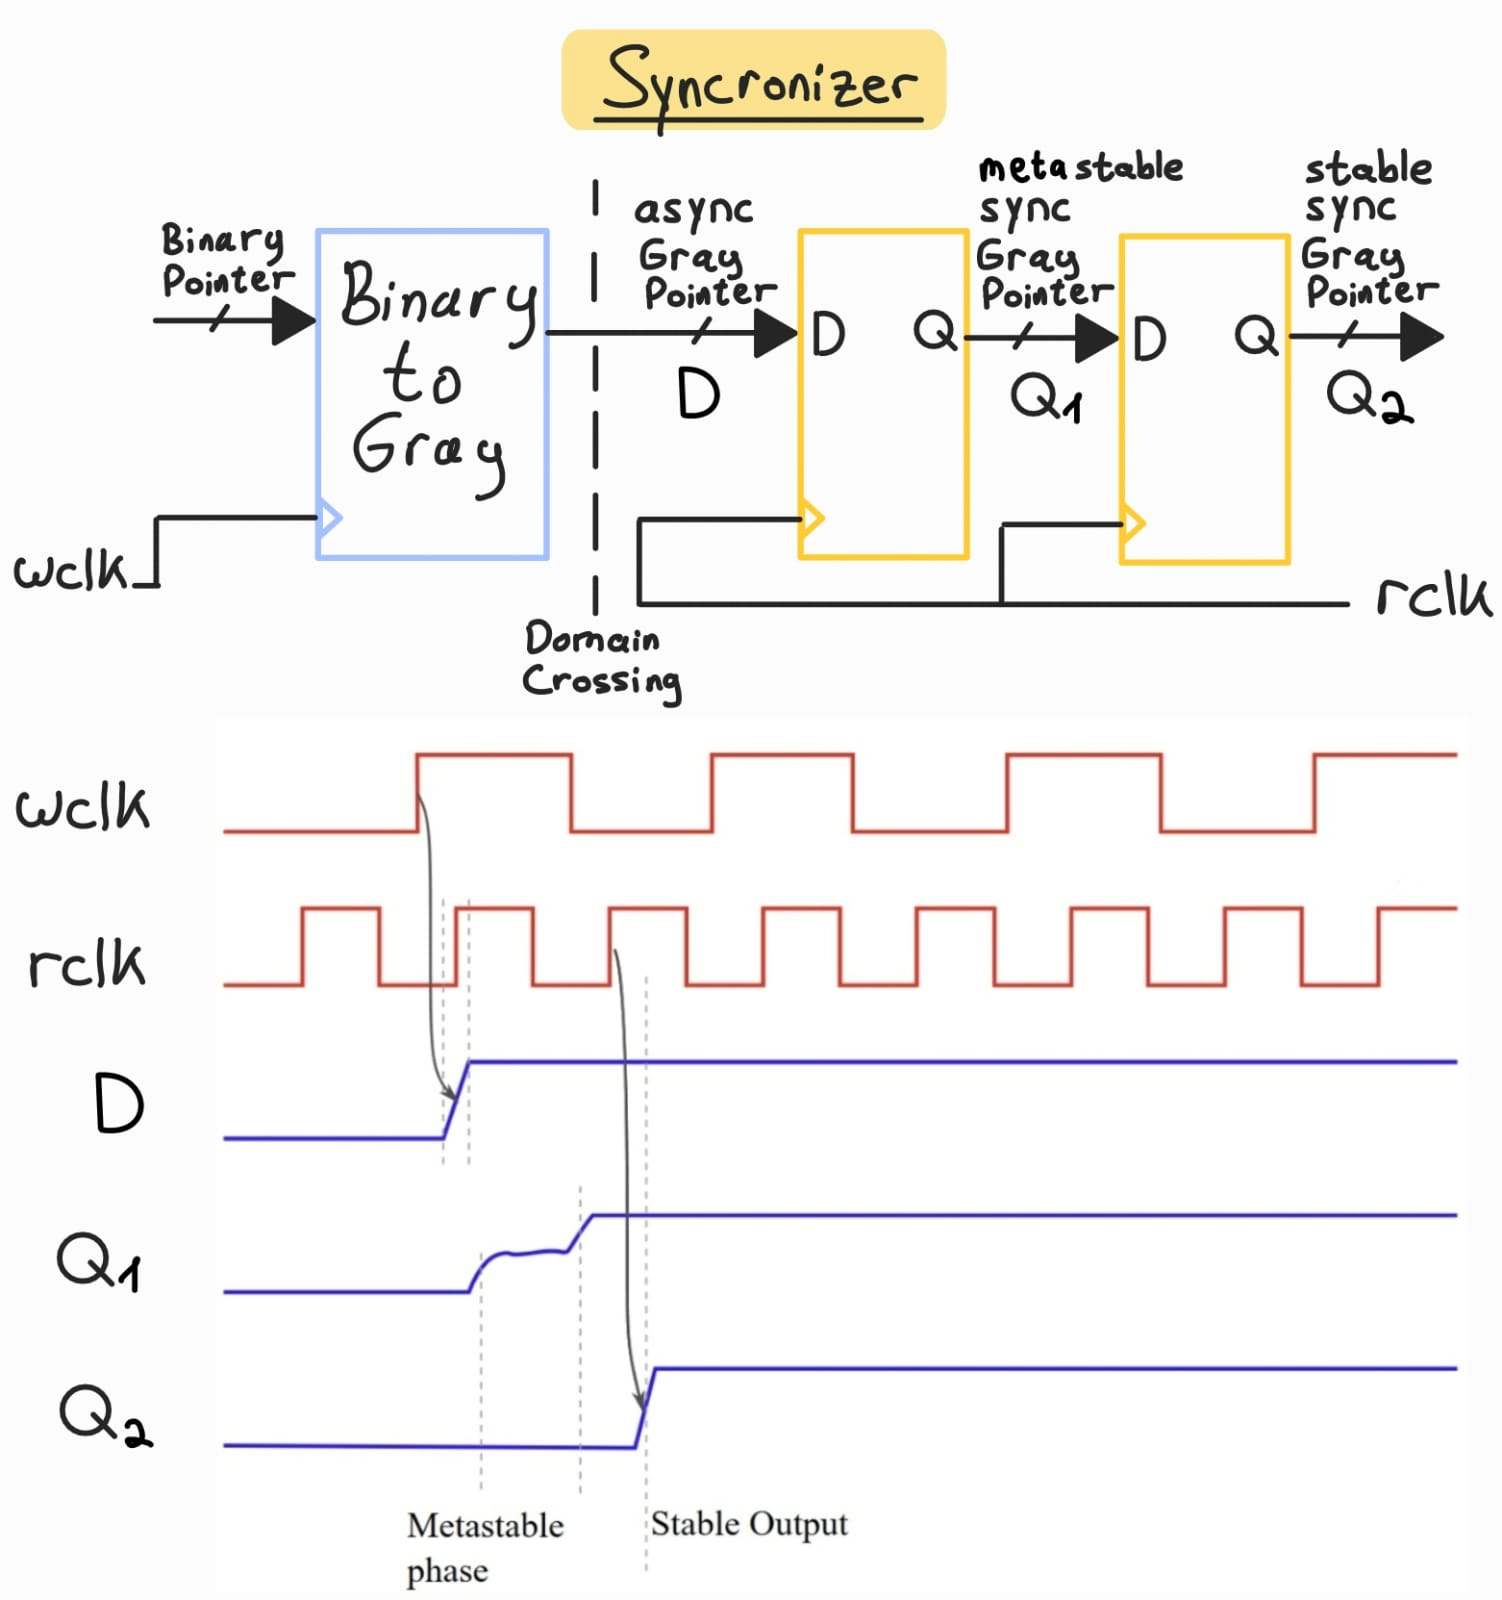
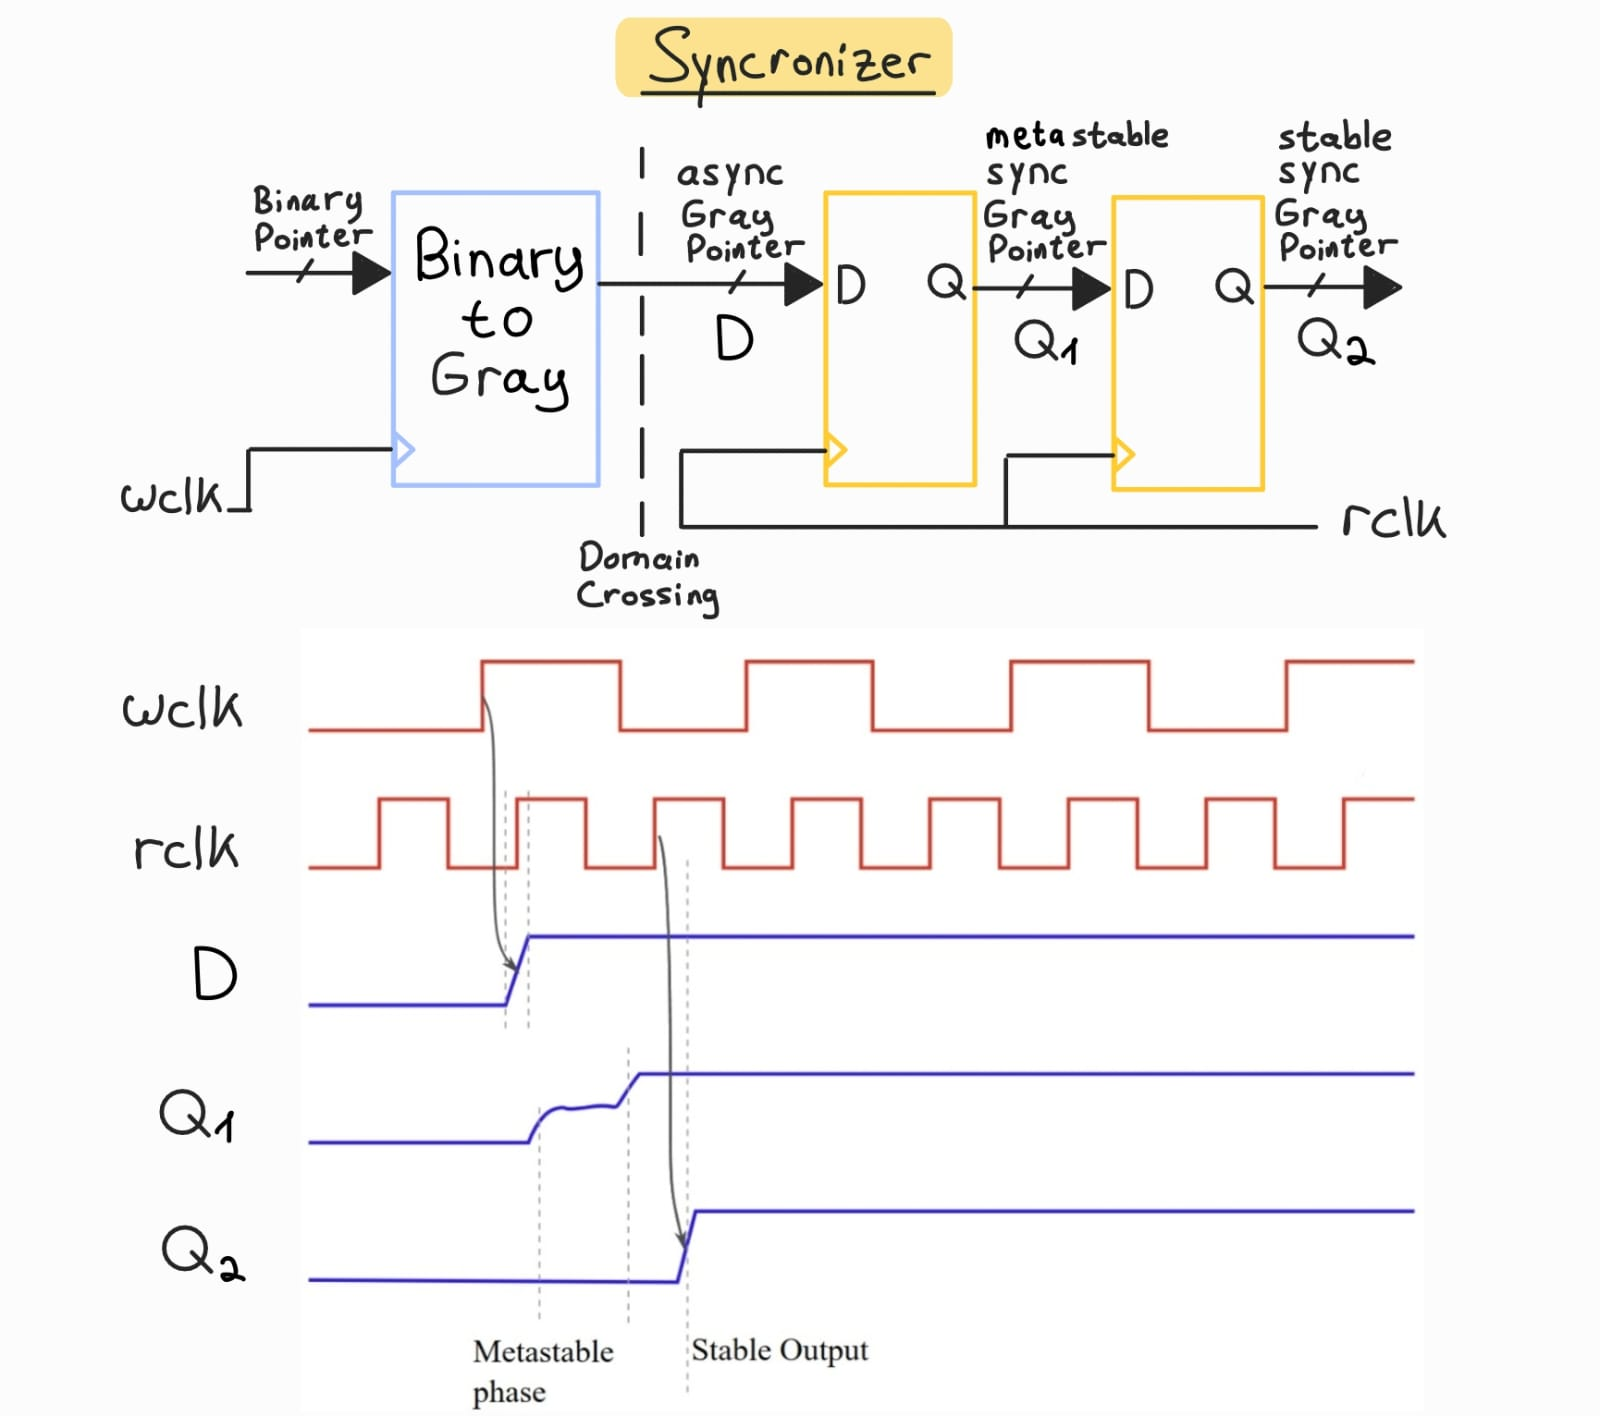
editing pics & Sva

diff --git a/README.md b/README.md
@@ -26,8 +26,10 @@
   - [Why a Simple Testbench is Insufficient](#why-a-simple-testbench-is-insufficient)
   - [UVM Testbench Architecture](#uvm-testbench-architecture)
   - [Testbench Signal Map](#testbench-signal-map)
-- [5. SystemVerilog Assertions (SVA) & Coverage](#5-systemverilog-assertions-sva--coverage)
-  - [SystemVerilog Assertions (SVA - 12 Safety Checkers)](#systemverilog-assertions-sva---12-safety-checkers)
+- [5. SVA & Coverage](#5-sva--coverage)
+  - [Why use SystemVerilog Assertions?](#why-use-systemverilog-assertions)
+  - [SystemVerilog Assertions - 12 Safety Checkers](#systemverilog-assertions---12-safety-checkers)
+  - [Defense in Depth (Data Integrity)](#defense-in-depth-data-integrity)
   - [Functional & Structural Code Coverage](#functional--structural-code-coverage)
   - [Verification Trace Matrix (Features Verified)](#verification-trace-matrix-features-verified)
   - [Coverage Results](#coverage-results)
@@ -43,6 +45,8 @@
 This project implements a parameterized dual-clock asynchronous FIFO in VHDL for safe data transfer across independent clock domains (CDC). The design is fully verified using a SystemVerilog UVM environment with SVA assertions and 100% coverage.
 
 ### What is a FIFO?
+![FIFO queue](docs/fifo_queue.jpg)
+
 A FIFO (First-In, First-Out) is a hardware data buffer where the first piece of data written into the memory is the first piece of data read out, acting like a queue. An **asynchronous** FIFO has independent clocks for writing and reading, allowing systems operating at different speeds to communicate.
 
 ### Why Asynchronous FIFOs Matter
@@ -232,11 +236,11 @@ The testbench operates using five primary UVM components:
 - **Scoreboard:** Records data pushed into the FIFO and compares it against data popped out to verify zero data corruption.
 - **Virtual Interface:** Allows the testbench to drive and monitor signals on the DUT's pins.
 
-### 🚚 UVM Logistics & Factory Analogy
+### 🚚 UVM Logistics Analogy
 
 ![UVM Logistics Analogy](docs/UVM_logistics_analogy.jpg)
 
-Beyond these five primary components, the testbench relies on several smaller elements like sequences and transactions to function. Below is a comprehensive explanation of how all these parts work together to verify the FIFO, using a shipping container logistics analogy:
+Beyond these five primary components, the testbench relies on several smaller elements like sequences and transactions to function. Below is an explanation of how these parts work together to verify the FIFO, using a shipping container logistics analogy:
 
 | Analogy | UVM Concept | Role in FIFO Verification |
 | :--- | :--- | :--- |
@@ -271,24 +275,38 @@ To get into the specifics, below is a table that explains how each hardware sign
 
 ---
 
-# 5. SystemVerilog Assertions (SVA) & Coverage
+# 5. SVA & Coverage
 
-## SystemVerilog Assertions (SVA - 12 Safety Checkers)
+## Why use SystemVerilog Assertions?
 
-The verification environment contains **12 concurrent and immediate SystemVerilog Assertions** to check the safety and correctness of the design protocol in real time:
+We use the **Scoreboard** as our **Black-Box** checker. Operating in the software domain, it uses **Object-Oriented Programming** to abstract external pin activity into high-level, "timeless" transactions. Because it tracks abstract data rather than physical clocks, the Scoreboard is blind to timing bugs but perfect for verifying data that stays in the queue over long periods of time.
 
-1. **Write Domain Reset:** Asserts that when the write reset (`wrst_n`) is active, all write pointers (`waddr`, binary, Gray) and the `wfull` flag are correctly initialized to `0`.
-2. **Read Domain Reset:** Asserts that when the read reset (`rrst_n`) is active, all read pointers (`raddr`, binary, Gray) are initialized to `0` and `rempty` is asserted (`1`).
-3. **Write Pointer Stability (No Overwrite):** Verifies that if `wfull` is asserted, any subsequent write requests (`winc`) will not increment the write pointers (protects against write overflow).
-4. **Read Pointer Stability (No Overread):** Verifies that if `rempty` is asserted, any subsequent read requests (`rinc`) will not increment the read pointers (protects against read underflow).
-5. **Write Gray-Code Integrity:** Checks that the write Gray-code pointer changes by only one bit per increment step, ensuring CDC safety.
-6. **Read Gray-Code Integrity:** Checks that the read Gray-code pointer changes by only one bit per increment step, ensuring CDC safety.
-7. **Empty Flag Generation:** Verifies that when the read Gray pointer equals the synchronized write Gray pointer, the `rempty` flag is asserted.
-8. **Full Flag Generation:** Verifies that when the write Gray pointer matches the synchronized read Gray pointer (with the two MSBs inverted), the `wfull` flag is asserted.
-9. **Write Enable Gating:** Verifies that the internal write memory enable (`wclken`) is only active when `winc = 1` and `wfull = 0`.
-10. **Read Enable Gating:** Verifies that the internal read memory enable (`rclken`) is only active when `rinc = 1` and `rempty = 0`.
-11. **Data Integrity Checker:** Compares the read data `rdata` against a golden shadow memory array (`fifo_data`) at the read address to check for data corruption.
-12. **Memory Occupancy Bound Check:** Verifies that the modular difference between the write pointer and synchronized read pointer (`w_occupancy`) never exceeds the maximum FIFO `DEPTH`.
+However, if the Scoreboard detects a failure, it only tells us that the data broke, not *why*. Did a write pointer increment too fast? Did a synchronizer fail? 
+
+To catch these hardware-level bugs the exact cycle they happen, we implemented **SVA** as our **White-Box** checker. Built using strictly timed **Temporal Logic**, SVA lives in the hardware domain. Unlike the Scoreboard, SVA is perfect for checking immediate, short-term events. It monitors internal signals cycle-by-cycle, telling us exactly *why* and *when* a protocol was violated.
+
+## SystemVerilog Assertions - 12 Safety Checkers
+
+The verification environment contains **12 concurrent and immediate SystemVerilog Assertions** to check the safety and correctness of the FIFO protocol:
+
+1. **Write Domain Reset:** Asserts that when the write reset is active, all write pointers (`waddr`, binary, Gray) and the full flag are correctly initialized to `0`.
+2. **Read Domain Reset:** Asserts that when the read reset is active, all read pointers (`raddr`, binary, Gray) are initialized to `0` and the empty flag is asserted (`1`).
+3. **Write Pointer Stability (No Overwrite):** Verifies that if the full flag is asserted, any subsequent write requests (`winc`) will not increment the write pointers.
+4. **Read Pointer Stability (No Overread):** Verifies that if the empty flag is asserted, any subsequent read requests (`rinc`) will not increment the read pointers.
+5. **Write Gray-Code Integrity:** Checks that the write Gray-code pointer changes by only one bit per increment step.
+6. **Read Gray-Code Integrity:** Checks that the read Gray-code pointer changes by only one bit per increment step.
+7. **Empty Flag Generation:** Verifies that when the read Gray pointer equals the synchronized write Gray pointer, the empty flag is asserted.
+8. **Full Flag Generation:** Verifies that when the write Gray pointer matches the synchronized read Gray pointer (with the two MSBs inverted), the full flag is asserted.
+9. **Write Enable Gating:** Verifies that `wclken` is only active when `winc = 1` and `wfull = 0`.
+10. **Read Enable Gating:** Verifies that `rclken` is only active when `rinc = 1` and `rempty = 0`.
+11. **Data Integrity Checker:** Compares the read data against a golden shadow memory array (`fifo_data`) at the read address to check for data corruption.
+12. **Memory Occupancy Bound Check:** Verifies that the modular difference between the write pointer and synchronized read pointer never exceeds the FIFO depth.
+
+### Defense in Depth (Data Integrity)
+
+While SVA checker #11 behaves like a scoreboard by verifying data integrity, keeping both provides **Defense in Depth** for debugging. 
+
+**Why check data integrity twice?** If both the SVA and the Scoreboard fail, the internal memory array corrupted the data. If *only* the Scoreboard fails, the memory is fine, but data was corrupted externally on the bus.
 
 ---
 
